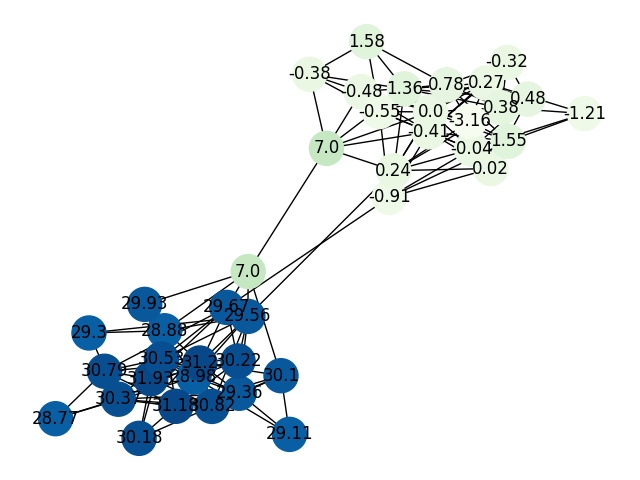
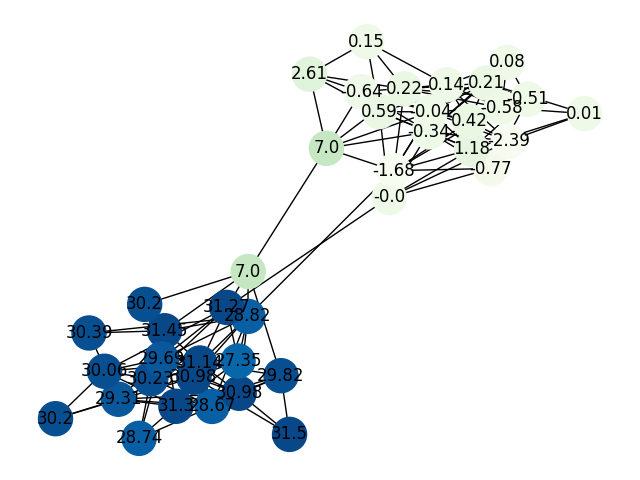
Working but not converging

diff --git a/functions_copy.py b/functions_copy.py
@@ -1,3 +1,5 @@
+import copy
+import math
 import os
 import random
 import shutil
@@ -6,14 +8,16 @@ import matplotlib
 import matplotlib.pyplot as plt
 import networkx as nx
 import numpy as np
+import pandas as pd
+from itertools import islice
 
 import parameters
 from parameters import gSize, nCommunities, \
-    mu, mu_bad, sigma, sigma_bad
+    mu, mu_bad, sigma, sigma_bad, n, path
 
 
 # Clean the outputs folder or make a new one if it doesn't exist
-def clean_outputs_folder(path):
+def clean_outputs_folder():
     folder = path
     for filename in os.listdir(folder):
         file_path = os.path.join(folder, filename)
@@ -26,6 +30,7 @@ def clean_outputs_folder(path):
             print('Failed to delete %s. Reason: %s' % (file_path, e))
 
 
+# Generate a graph stochastic block model - like
 def generate_graph(commSize, pd, qd):
     degree = int(pd * commSize)
     print(f'The degree: {degree}')
@@ -42,6 +47,7 @@ def generate_graph(commSize, pd, qd):
     return cG, minCut
 
 
+# Find the cut between the two blocks and the minimum degree TODO Update to c communities
 def find_cut(mG):
     minDegree = min([i[1] for i in mG.degree])
     partitionCut = []
@@ -55,6 +61,7 @@ def find_cut(mG):
     return partitionCut, cutSize, minDegree
 
 
+# Select the indices of the edges across the border
 def choose_fn_indices(mG, faultyNodes, borderNodes):
     fn_copy = faultyNodes.copy()
     faultyNodesIdx = [[], []]  # TODO: rewrite it to account for more than two communities
@@ -71,9 +78,10 @@ def choose_fn_indices(mG, faultyNodes, borderNodes):
     return faultyNodesIdx
 
 
+# Assign the faulty values to the nodes on the border
 def assign_values(mG, faultyNodes, faultyNodesIdx):
     mNu, gv, bv = [], [], []
-    attributes = {}
+    S = []
     for i in range(nCommunities):
         if i:
             indices = list(mG)[gSize[i - 1]:gSize[i] + gSize[i - 1]]
@@ -90,13 +98,15 @@ def assign_values(mG, faultyNodes, faultyNodesIdx):
         S2 = {indices[g]: gv[-1][g] for g in range(len(gv[-1]))}
         S1.update(S2)
 
-        attributes.update(S1)
+        S.append(S1)
 
+    attributes = {}
+    [attributes.update(S[i]) for i in range(nCommunities)]
     nx.set_node_attributes(mG, attributes, 'Values')
-    return mNu, attributes, mG
+    return mNu, S, mG
 
 
-# Display graph
+# Display the graph
 def display_graph(mG, rep, mString, path):
     pos = nx.spring_layout(mG, seed=4)
     attr = nx.get_node_attributes(mG, 'Values')
@@ -109,3 +119,88 @@ def display_graph(mG, rep, mString, path):
     mStr = mString + f'{rep}.png'
     plt.savefig(path + mStr, format='png')
     plt.close()
+
+
+# Define majority median
+def majority_median(v):
+    v.sort()
+    idx = math.ceil(len(v) / 2)
+    if len(v) > 1:
+        return v[idx]
+    else:
+        return v[0]
+
+
+# Calculates the potential as u = 1/2 \sum_{x \in V}\sum_{y in N_x}(\xi_y - \xi_x) = - 1/2 \Nabla \phi
+def calculate_community_potential(vals, mG, fnIdx):
+    pot = {}
+    for i in range(nCommunities):
+        goodNodes = {j: vals[i][j] for j in vals[i].keys() if j not in fnIdx[i]}
+        sG = mG.subgraph(goodNodes.keys())
+        mL_comm = nx.laplacian_matrix(sG)
+        mVals = np.array(list(goodNodes.values()))
+        tmp = (-1) * np.dot(mL_comm.toarray(), mVals)
+        pot[i] = np.array([round(i, 4) for i in tmp])
+    return pot
+
+
+def calculate_global_potential(vals, mG, fnIdx):
+    goodNodes = {}
+    for c in range(nCommunities):
+        goodNodes.update({j: vals[c][j] for j in vals[c].keys() if j not in fnIdx[c]})
+    sG = mG.subgraph(goodNodes.keys())
+    mL = nx.laplacian_matrix(sG)
+    goodVals = np.array(list(goodNodes.values()))
+    pot = (-1) * np.dot(mL.toarray(), goodVals)
+    pot = np.array([round(i, 4) for i in pot])
+    return pot
+
+
+# Main loop
+def main_loop(condition, values, badValIdx, mG):
+    global nodeAttributes, cp
+    t, counter = 1, 0
+    vals, bvi = values[0].copy(), badValIdx[0].copy()
+    for c in range(1, nCommunities):  # remove community partition in structures
+        bvi += badValIdx[c]
+        vals.update(values[c])
+    while any(condition) > 0.01 and counter < 30 * int(math.log(n)):  # and distanceChange > 0.001:
+        nodeAttributes = values.copy()
+        for x in list(mG):
+            if x not in bvi:
+                neighbors = list(mG.adj[x])
+                neighVals = [vals[j] for j in neighbors]
+                med = majority_median(neighVals)
+                for c in range(nCommunities):
+                    if x in values[c].keys():
+                        nodeAttributes[c].update({x: med})
+        values = copy.deepcopy(nodeAttributes)
+        tmp = nodeAttributes[0]
+        for c in range(nCommunities):
+            tmp.update(nodeAttributes[c])
+        nodeAttributes = tmp
+        nx.set_node_attributes(mG, nodeAttributes, 'Values')
+        display_graph(mG, t, 'Graph_iter', path)
+
+        cp = calculate_community_potential(values, mG, badValIdx)
+
+        condition = list(np.abs(cp[0]))
+        for c in range(1, nCommunities):
+            condition += list(np.abs(cp[c]))
+
+        t += 1
+        counter += 1
+
+    return cp, t, values
+
+
+def save_data(vals, mStr):
+    data = {'Comm 0': vals[0].values()}
+    for c in range(1, nCommunities):
+        data.update({f'Comm {c}': vals[c].values()})
+    df = pd.DataFrame(data)
+    # for c in range(1, nCommunities):
+    #     mStr = f'Comm {c}'
+    #     df[mStr] = list(vals[c].values())
+    df.to_csv(path + mStr, index=False)
+

diff --git a/main_copy.py b/main_copy.py
@@ -1,63 +1,65 @@
 import math
 import os
 
-import matplotlib
 import networkx as nx
-from matplotlib import pyplot as plt
-
+import warnings
 import functions_copy as func
-from parameters import STOCHASTIC_BLOCK_MODEL, n, p, q, pQueryOracle, path, gSize
+import numpy as np
+import pandas as pd
 
-# Clean the output folder
+from parameters import STOCHASTIC_BLOCK_MODEL, n, p, q, pQueryOracle, path, nCommunities
+
+# Suppress future warnings, comment if code not running due to  this
+warnings.simplefilter(action='ignore', category=FutureWarning)
+
+"Clean the output folder"
 if os.path.exists(path):
-    func.clean_outputs_folder(path)
+    func.clean_outputs_folder()
 else:
     os.makedirs(path)
 
 "Set up the graph"
-
 if STOCHASTIC_BLOCK_MODEL:  # G is generated through a stochastic block model
     probs = [[p, q], [q, p]]
     G = nx.stochastic_block_model([n, n], probs, seed=45)  # Generate graph
-    # Obtain the edges of the inter-blocks cut
-    mc_edges, mc, minDegree = func.find_cut(G)
-    print(f'The partition cut edges: {mc_edges}\nThe length: {mc}\nThe min degree: {minDegree}')
+    mc_edges, mc, minDegree = func.find_cut(G)  # Obtain the edges of the inter-blocks cut
+    print(f'The partition cut edges: {mc_edges}\nThe length of the cut: '
+          f'{mc}\nThe min degree: {minDegree}')
 else:  # G is the result of merging two regular graphs
     G, mc = func.generate_graph(n, p, q)
     mc_edges = {}  # TODO: Cristina Complete this part
 
 tf = math.ceil(2 * n * 0.05)  # top faulty nodes
-print(f'The n of faulty nodes: {tf}')
-# p_fn = random.randint(0, tf - 1)
-fn = [int(tf / 2), int(tf / 2)]  # The faulty nodes per community
+fn = [math.floor(tf / 2), tf - math.floor(tf / 2)]  # The faulty nodes per community
 redNodes = math.ceil(tf + int(0.8 * tf) * 1 / pQueryOracle)  # The amount of redundant nodes
 
-# Initial step
+print(f'n of faulty nodes: {tf}\nn of redundant nodes: {redNodes}')
+
+"Initial Step"
 fn_indices = func.choose_fn_indices(G, fn, mc_edges)
 nu, values, G = func.assign_values(G, fn, fn_indices)
 
 func.display_graph(G, 0, 'Graph_iter', path)
 
-# # About the median
-# median, temp = [], []
-# for i in range(len(mu)):
-#     median.append(func.majority_median(list(values[i].values())))
-#     temp += list(values[i].values())
-# median_total = func.majority_median(temp)
-# medianOfMedian = func.majority_median(median)
-# print(f'The initial median: {median}')
-# print(f'The global median: {median_total}')
-# print(f'The median of medians: {medianOfMedian}')
-#
-# community_potential = func.calculate_community_potential(goodValues, G)
-# global_potential = func.calculate_global_potential(goodValues, G)
-#
-# t = 1
-# condition_list = []
-# for c in range(nCommunities):
-#     condition_list += list(np.abs(community_potential[c]))
-#
-# counter = 0
+"Calculate the initial median"
+median = [func.majority_median(list(values[i].values())) for i in range(nCommunities)]
+l = {}
+[l.update(values[i]) for i in range(nCommunities)]
+medianTotal = func.majority_median(list(l.values()))
+medianOfMedian = func.majority_median(median)
+
+print(f'The initial median: {median}\nThe global median: {medianTotal}'
+      f'\nThe median of medians: {medianOfMedian}')
+
+"Calculate the potentials"
+print('Calculate the potentials...')
+community_potential = func.calculate_community_potential(values, G, fn_indices)
+global_potential = func.calculate_global_potential(values, G, fn_indices)
+
+condition_list = list(np.abs(community_potential[0]))
+for c in range(1, nCommunities):
+    condition_list += list(np.abs(community_potential[c]))
+
 # while any(condition_list) > 0.01 and counter < 3 * int(math.log(n)):  # and distanceChange > 0.001:
 #     temp, nodeAttributes = values.copy(), {}
 #     for x in list(G):
@@ -90,17 +92,22 @@ func.display_graph(G, 0, 'Graph_iter', path)
 #     t += 1
 #     counter += 1
 #
-# print(f'The total time: {t}')
-#
-#
-# print(f'####################################'
-#       f'Obtaining the other community median'
-#       f'####################################')
-#
-# otherG = G.copy()
-# tSecond = 0
-# threshold = {}
-#
+print(f'########################'
+      f'Obtain community median'
+      f'########################')
+community_potential, t, values = func.main_loop(condition_list, values, fn_indices, G)
+
+func.save_data(values, 'Community Medians.csv')
+
+
+print(f'###############################'
+      f'Obtaining the external medians'
+      f'###############################')
+
+otherG = G.copy()
+tSecond = 0
+threshold = {}
+
 # x_b, x_b_goodValues, nodeAttributes = deepcopy(values), [], {}
 # temp_b = deepcopy(values)
 # for c in range(nCommunities):
